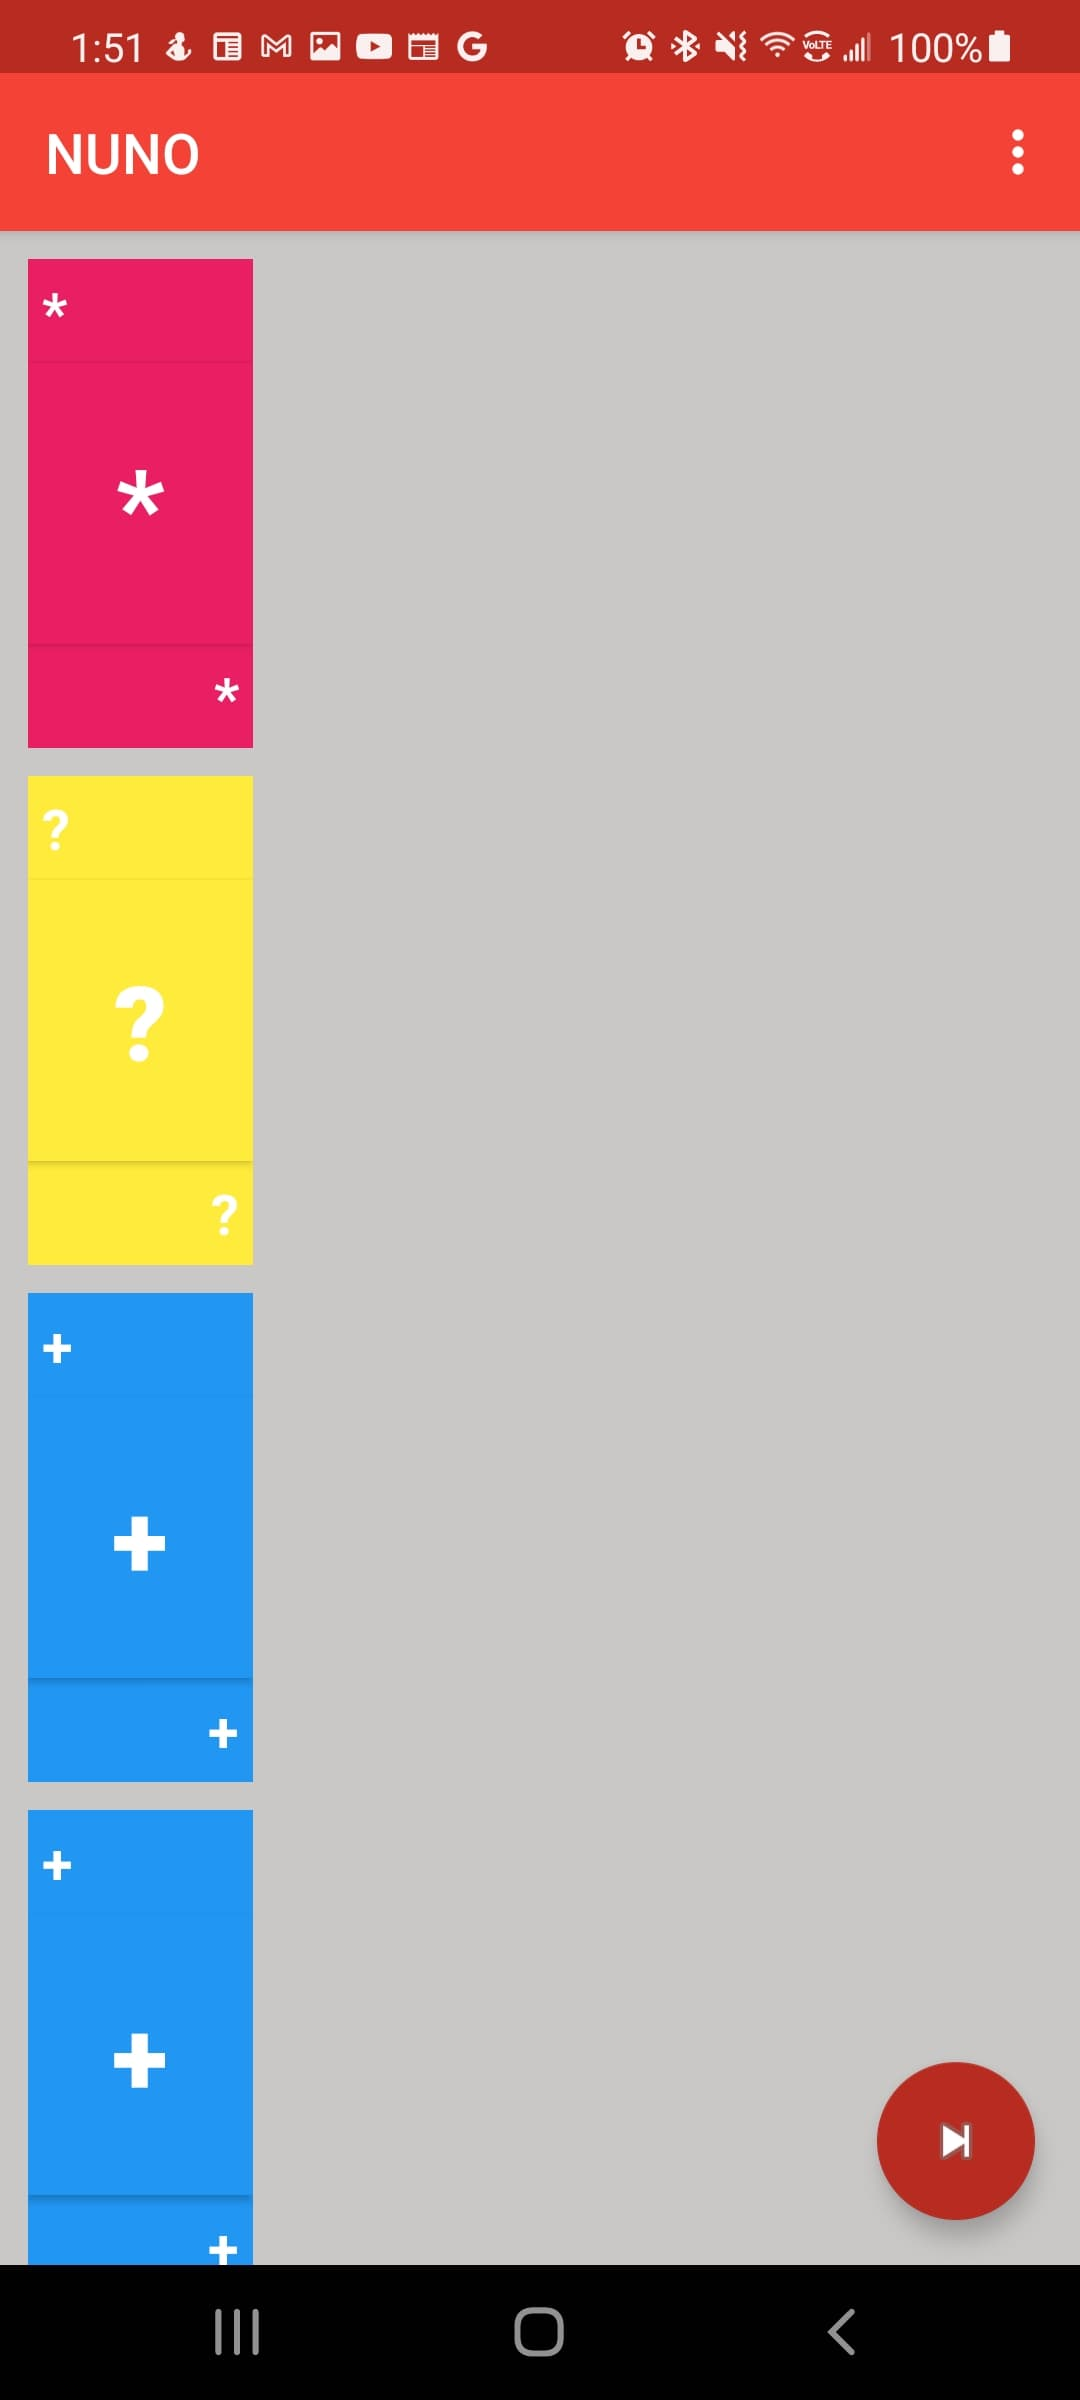
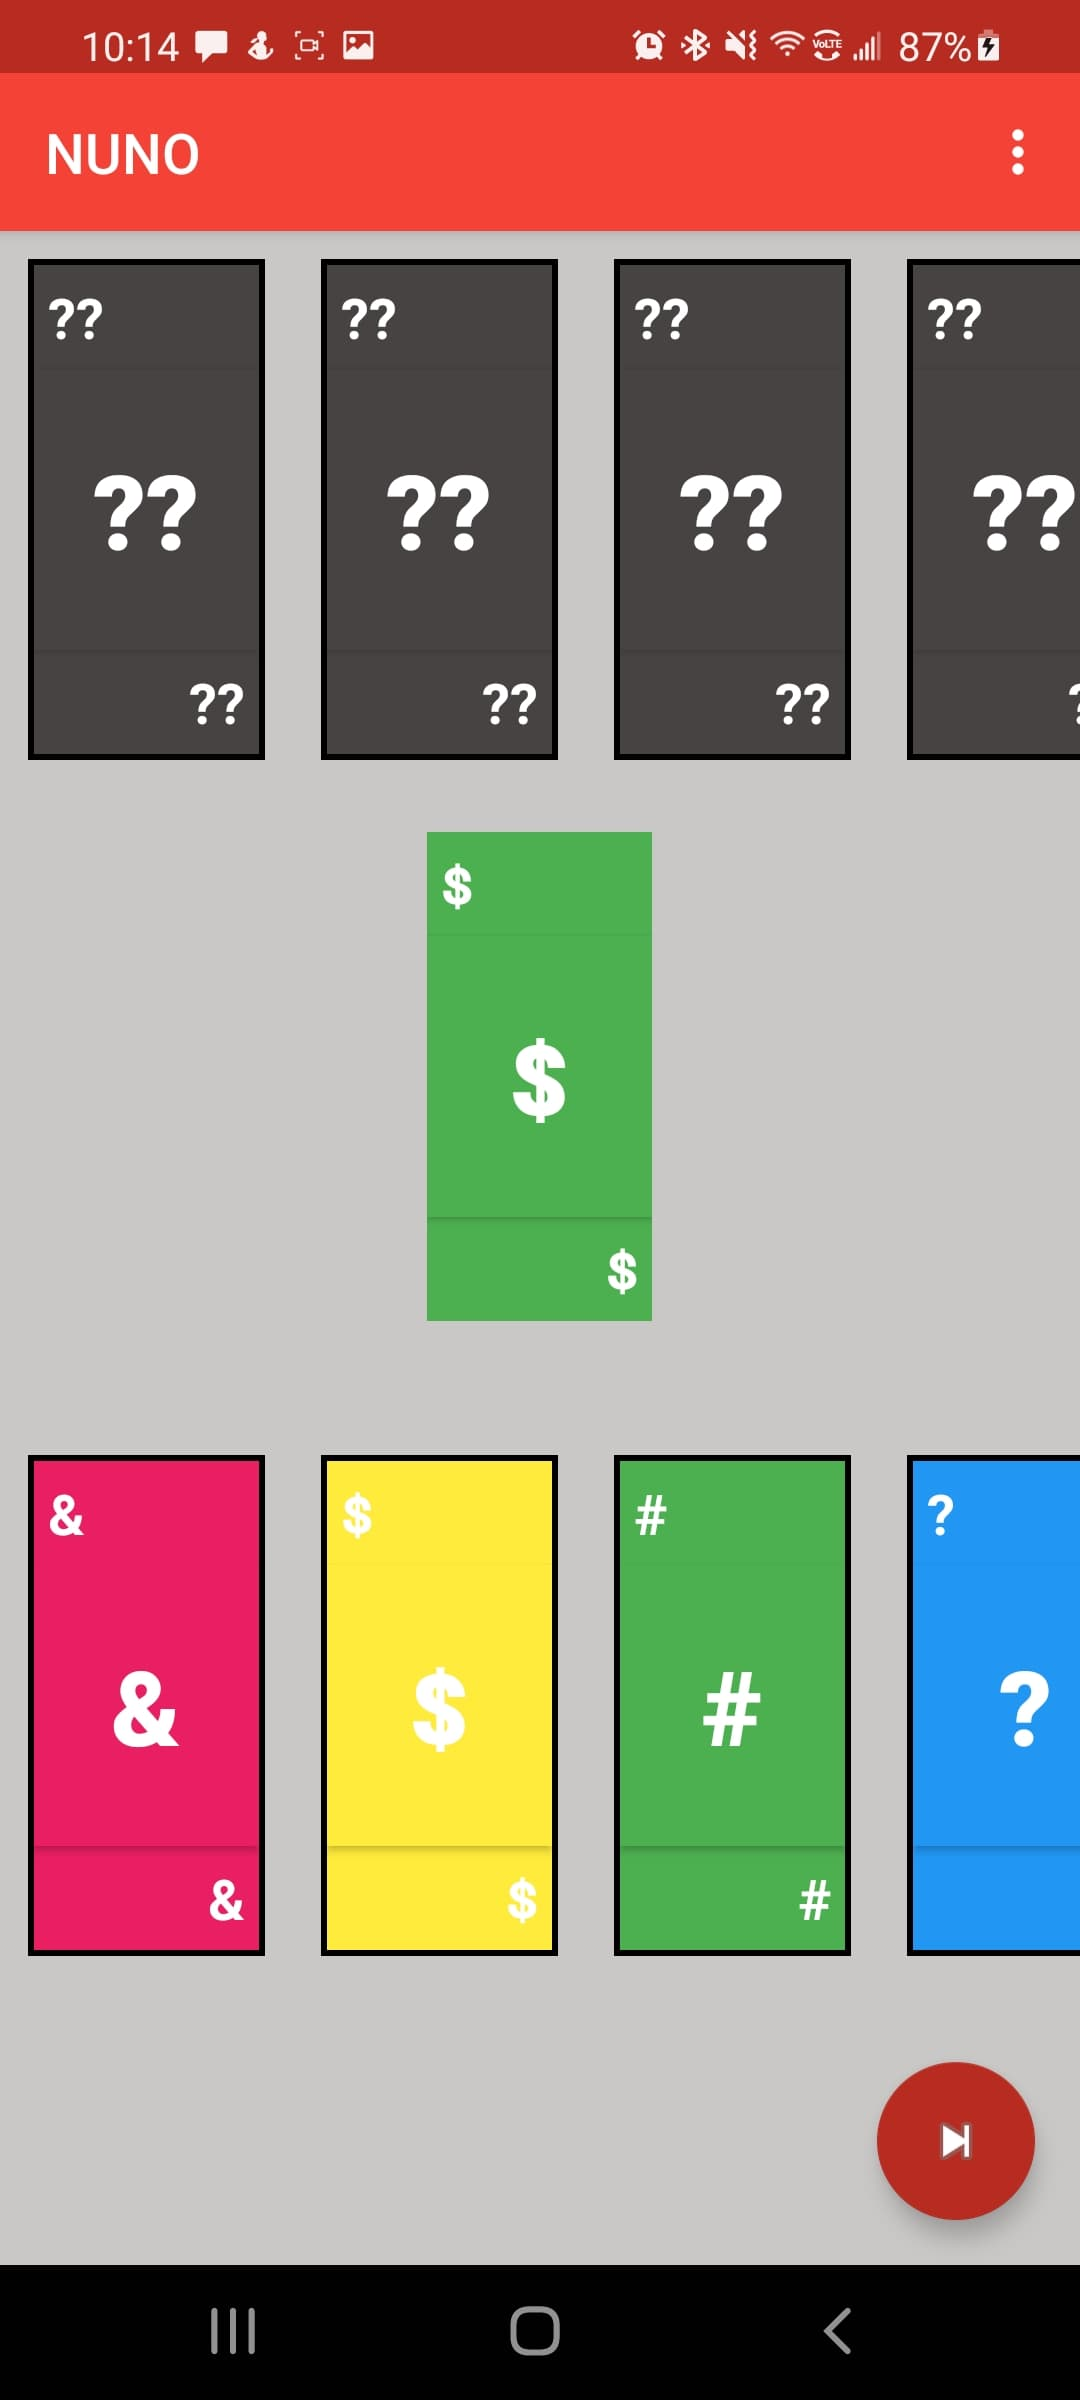
fixed the UI a bit

diff --git a/app/src/main/java/com/downs/nuno/GameGridAdapter.java b/app/src/main/java/com/downs/nuno/GameGridAdapter.java
@@ -5,39 +5,73 @@ import android.content.Context;
 import android.view.LayoutInflater;
 import android.view.View;
 import android.view.ViewGroup;
-import android.widget.ArrayAdapter;
 import android.widget.TextView;
-
+import androidx.recyclerview.widget.RecyclerView;
 import com.downs.nuno.models.Card;
-
 import java.util.ArrayList;
 
-public class GameGridAdapter extends ArrayAdapter<Card> {
 
+public class GameGridAdapter extends RecyclerView.Adapter<GameGridAdapter.MyViewHolder> {
 
-    public ArrayList<Card> cards;
-
+    private ArrayList<Card> cards;
+    private Context context;
 
     public GameGridAdapter(Context context, ArrayList<Card> cards) {
-        super(context, 0, cards);
-
         this.cards = cards;
+        this.context = context;
+    }
 
+
+
+    public static class MyViewHolder extends RecyclerView.ViewHolder {
+
+
+        TextView topSymbol;
+        TextView centerSymbol;
+        TextView bottomSymbol;
+
+
+        public MyViewHolder(View itemView) {
+            super(itemView);
+
+
+            topSymbol = itemView.findViewById(R.id.top_symbol);
+            centerSymbol = itemView.findViewById(R.id.center_symbol);
+            bottomSymbol = itemView.findViewById(R.id.bottom_symbol);
+
+
+            itemView.setOnClickListener(new View.OnClickListener() {
+                @Override
+                public void onClick(View v)
+                {
+
+
+                }
+            });
+        }
     }
 
 
 
     @Override
-    public View getView(int position, View convertView, ViewGroup parent) {
+    public MyViewHolder onCreateViewHolder(ViewGroup parent,
+                                           int viewType) {
+        View view = LayoutInflater.from(parent.getContext())
+                .inflate(R.layout.deck_item_view, parent, false);
 
-        // Check if an existing view is being reused, otherwise inflate the view
-        if (convertView == null) {
-            convertView = LayoutInflater.from(getContext()).inflate(R.layout.deck_item_view, parent, false);
-        }
+
+        MyViewHolder myViewHolder = new MyViewHolder(view);
+        return myViewHolder;
+    }
+
+    @Override
+    public void onBindViewHolder(final MyViewHolder holder, final int position) {
+
+
         // Lookup view for data population
-        TextView topSymbol = convertView.findViewById(R.id.top_symbol);
-        TextView centerSymbol = convertView.findViewById(R.id.center_symbol);
-        TextView bottomSymbol = convertView.findViewById(R.id.bottom_symbol);
+        TextView topSymbol = holder.topSymbol;
+        TextView centerSymbol = holder.centerSymbol;
+        TextView bottomSymbol = holder.bottomSymbol;
 
 
         // Populate the data into the template view using the data object
@@ -45,12 +79,14 @@ public class GameGridAdapter extends ArrayAdapter<Card> {
         Integer color = cards.get(position).getColor();
 
         topSymbol.setText(symbol);
-        topSymbol.setBackgroundColor(getContext().getResources().getColor(color));
+        topSymbol.setBackgroundColor(context.getResources().getColor(color));
         centerSymbol.setText(symbol);
-        centerSymbol.setBackgroundColor(getContext().getResources().getColor(color));
+        centerSymbol.setBackgroundColor(context.getResources().getColor(color));
         bottomSymbol.setText(symbol);
-        bottomSymbol.setBackgroundColor(getContext().getResources().getColor(color));
-        // Return the completed view to render on screen
-        return convertView;
+        bottomSymbol.setBackgroundColor(context.getResources().getColor(color));
     }
-}
+
+    @Override
+    public int getItemCount() {
+        return cards.size();
+    }}

diff --git a/app/src/main/java/com/downs/nuno/MainActivity.java b/app/src/main/java/com/downs/nuno/MainActivity.java
@@ -3,10 +3,12 @@ package com.downs.nuno;
 import android.os.Bundle;
 import androidx.appcompat.app.AppCompatActivity;
 import androidx.appcompat.widget.Toolbar;
+import androidx.recyclerview.widget.LinearLayoutManager;
+import androidx.recyclerview.widget.RecyclerView;
+
 import android.view.Menu;
 import android.view.MenuItem;
 import android.view.View;
-import android.widget.ListView;
 
 import com.downs.nuno.models.Card;
 
@@ -14,18 +16,23 @@ import java.util.ArrayList;
 
 public class MainActivity extends AppCompatActivity {
 
-    private int NUMBER_OF_CARDS_IN_HAND = 4;
+    private int NUMBER_OF_CARDS_IN_HAND = 7;
 
 
     private Integer[] cardColors = {
             R.color.nuno_red, R.color.nuno_green, R.color.nuno_blue, R.color.nuno_yellow
     };
 
+//    private String[] cardSymbols = {
+//            "1", "2", "3", "4", "5", "6", "7", "8", "9"
+//    };
     private String[] cardSymbols = {
             "#", "$", "%", "^", "&", "*", "+", "!", "?"
     };
 
-    ListView listView;
+
+    RecyclerView computerRecyclerView;
+    RecyclerView playerRecyclerView;
 
 
     @Override
@@ -37,7 +44,11 @@ public class MainActivity extends AppCompatActivity {
 
 
 
-        listView = findViewById(R.id.game_grid);
+        computerRecyclerView = findViewById(R.id.computer_game_grid);
+        playerRecyclerView = findViewById(R.id.game_grid);
+
+
+        generateComputersDeck(NUMBER_OF_CARDS_IN_HAND);
         generateRandomDeck(NUMBER_OF_CARDS_IN_HAND);
 
 
@@ -60,6 +71,30 @@ public class MainActivity extends AppCompatActivity {
 
 
     }
+
+
+
+    private void generateComputersDeck(int sizeOfDeck){
+
+        ArrayList<Card> cards = new ArrayList<>();
+        for(int i = 0; i < sizeOfDeck; i++){
+            Card newCard = new Card(R.color.unknown_card_color, "??");
+            cards.add(newCard);
+        }
+
+
+
+        GameGridAdapter adapter = new GameGridAdapter(this, cards);
+
+        LinearLayoutManager horizontalLayoutManagaer
+                = new LinearLayoutManager(MainActivity.this, LinearLayoutManager.HORIZONTAL, false);
+        computerRecyclerView.setLayoutManager(horizontalLayoutManagaer);
+        computerRecyclerView.setAdapter(adapter);
+
+    }
+
+
+
     private void generateRandomDeck(int sizeOfDeck){
 
         ArrayList<Card> cards = new ArrayList<>();
@@ -79,8 +114,13 @@ public class MainActivity extends AppCompatActivity {
         }
 
 
+
         GameGridAdapter adapter = new GameGridAdapter(this, cards);
-        listView.setAdapter(adapter);
+
+        LinearLayoutManager horizontalLayoutManagaer
+                = new LinearLayoutManager(MainActivity.this, LinearLayoutManager.HORIZONTAL, false);
+        playerRecyclerView.setLayoutManager(horizontalLayoutManagaer);
+        playerRecyclerView.setAdapter(adapter);
 
     }
 
